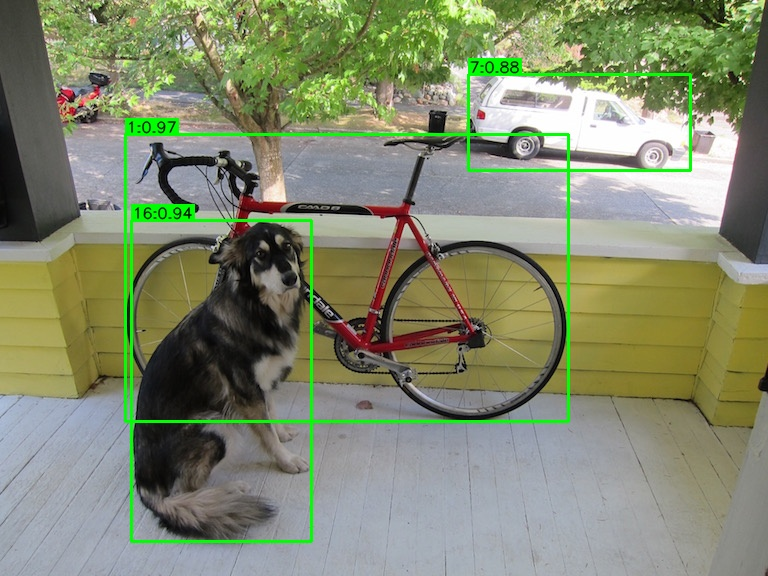
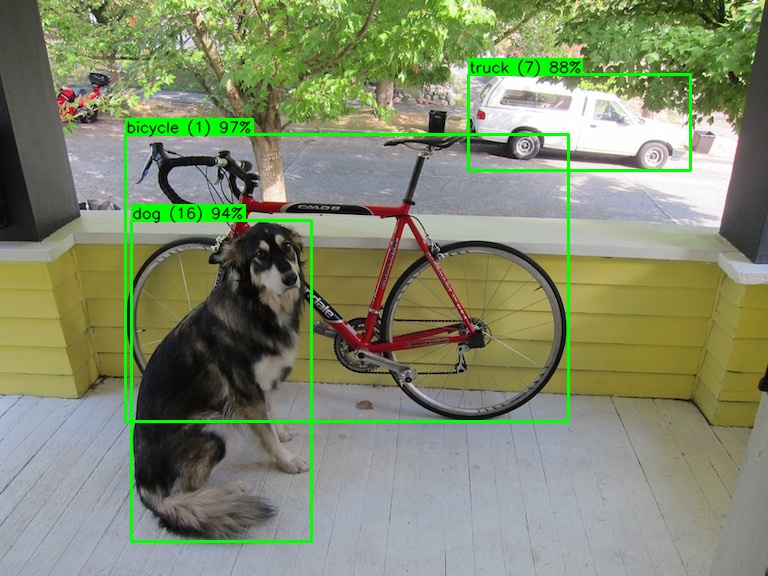
feat(viz): include class index and percentage in labels; regenerate dog_viz\n\n test(infer): add e2e dog detection test for yolov10s (skips if weights not cached)\n chore(gitignore): ignore weights/ artifacts\n\nAlso prints detailed stdout from infer.py and update_dog_viz for coding agents.

Changed region(s): [[0.1562, 0.1875, 0.3438, 0.25], [0.1562, 0.3438, 0.3438, 0.4062], [0.5938, 0.0938, 0.7812, 0.1562]]

diff --git a/leanyolo/utils/weights.py b/leanyolo/utils/weights.py
@@ -11,6 +11,10 @@ from urllib.parse import urlparse
 from urllib.request import urlopen
 
 import torch
+import re
+import sys
+import types
+from torch.serialization import add_safe_globals
 
 
 @dataclass
@@ -66,12 +70,72 @@ class WeightsEntry:
             except Exception:
                 # Last resort: explicit weights_only=False for odd cases
                 return torch.load(path, map_location=map_location, weights_only=False)  # type: ignore[call-arg]
-        except Exception:
-            # Fallback path
+        except Exception as e:
+            # Attempt a safe load by dynamically stubbing missing globals (e.g., ultralytics classes)
             try:
-                return torch.load(path, map_location=map_location, weights_only=False)  # type: ignore[call-arg]
+                return self._safe_load_with_dynamic_stubs(path, map_location)
             except Exception:
-                return torch.load(path, map_location=map_location)
+                # Fallback path (may require external modules; only if trusted)
+                try:
+                    return torch.load(path, map_location=map_location, weights_only=False)  # type: ignore[call-arg]
+                except Exception:
+                    return torch.load(path, map_location=map_location)
+
+    def _safe_load_with_dynamic_stubs(self, path: str, map_location: str | torch.device):
+        """Load a checkpoint with weights_only=True by allowlisting missing globals.
+
+        This avoids importing external libraries (e.g., ultralytics) by creating
+        minimal stub modules and classes on-the-fly and registering them via
+        torch.serialization.add_safe_globals. Only class names required by the
+        checkpoint are stubbed, and no conversion is performed here.
+        """
+        attempted: set[str] = set()
+        for _ in range(64):  # guard against infinite loops
+            try:
+                return torch.load(path, map_location=map_location, weights_only=True)  # type: ignore[call-arg]
+            except Exception as ex:  # UnpicklingError with details
+                msg = str(ex)
+                # Look for pattern like: "Unsupported global: GLOBAL ultralytics.nn.tasks.YOLOv10DetectionModel"
+                m = re.search(r"Unsupported global: (?:GLOBAL\s+)?([\w\.]+)\.(\w+)", msg)
+                if not m:
+                    raise
+                mod_path, cls_name = m.group(1), m.group(2)
+                fqcn = f"{mod_path}.{cls_name}"
+                if fqcn in attempted:
+                    raise
+                attempted.add(fqcn)
+                # Create stub module hierarchy
+                cur_mod = None
+                parent = None
+                for i, part in enumerate(mod_path.split(".")):
+                    mod_full = ".".join(mod_path.split(".")[: i + 1])
+                    mod_obj = sys.modules.get(mod_full)
+                    if mod_obj is None:
+                        mod_obj = types.ModuleType(mod_full)
+                        sys.modules[mod_full] = mod_obj
+                        if parent is not None:
+                            setattr(parent, part, mod_obj)
+                    parent = mod_obj
+                # Define a minimal stub class with a permissive state_dict() accessor
+                mod_obj = sys.modules[mod_path]
+                if not hasattr(mod_obj, cls_name):
+                    # Create a new type under the module
+                    Stub = type(
+                        cls_name,
+                        (object,),
+                        {
+                            "__module__": mod_path,
+                            # Provide a benign state_dict() to satisfy callers; actual tensors are
+                            # extracted from nested dicts by downstream utilities.
+                            "state_dict": lambda self: {},
+                        },
+                    )
+                    setattr(mod_obj, cls_name, Stub)
+                    add_safe_globals([Stub])
+                else:
+                    add_safe_globals([getattr(mod_obj, cls_name)])
+        # If we somehow exit the loop
+        raise RuntimeError("Failed to safely load checkpoint with dynamic stubs")
 
     def get_state_dict(
         self,

diff --git a/leanyolo/tests/test_infer_dog_pretrained.py b/leanyolo/tests/test_infer_dog_pretrained.py
@@ -1,0 +1,76 @@
+import os
+from pathlib import Path
+
+import pytest
+import cv2
+import torch
+
+from leanyolo.models import get_model, get_model_weights
+from leanyolo.data.coco import coco80_class_names
+from leanyolo.utils.letterbox import letterbox
+from leanyolo.utils.box_ops import unletterbox_coords
+
+
+def _weights_available_locally(model_name: str, filename: str) -> bool:
+    # Check LEANYOLO_WEIGHTS_DIR
+    env_dir = os.environ.get("LEANYOLO_WEIGHTS_DIR")
+    if env_dir and os.path.exists(os.path.join(env_dir, filename)):
+        return True
+    # Check default cache
+    cache_dir = os.path.join(os.path.expanduser("~"), ".cache", "leanyolo")
+    if os.path.exists(os.path.join(cache_dir, filename)):
+        return True
+    return False
+
+
+@pytest.mark.skipif(
+    not _weights_available_locally("yolov10s", "yolov10s.pt"),
+    reason="Official weights not cached locally; set LEANYOLO_WEIGHTS_DIR or prepopulate ~/.cache/leanyolo",
+)
+def test_dog_bicycle_truck_present_with_high_confidence():
+    img_path = Path("dog.jpg")
+    assert img_path.exists(), "dog.jpg must exist in repo root"
+
+    # Load image (BGR->RGB)
+    bgr = cv2.imread(str(img_path), cv2.IMREAD_COLOR)
+    assert bgr is not None, "Failed to read dog.jpg"
+    rgb = cv2.cvtColor(bgr, cv2.COLOR_BGR2RGB)
+
+    # Prepare model + class names
+    class_names = coco80_class_names()
+    model = get_model(
+        name="yolov10s",
+        weights="PRETRAINED_COCO",
+        class_names=class_names,
+        input_norm_subtract=[0.0, 0.0, 0.0],
+        input_norm_divide=[255.0, 255.0, 255.0],
+    ).to("cpu").eval()
+
+    # Inference pipeline similar to infer.py
+    imgsz = 640
+    lb_img, gain, pad = letterbox(rgb, new_shape=imgsz)
+    x = torch.from_numpy(lb_img).permute(2, 0, 1).float().unsqueeze(0)
+
+    with torch.inference_mode():
+        model.post_conf_thresh = 0.01  # low; we filter later at 0.80
+        model.post_iou_thresh = 0.65
+        raw = model(x)
+        dets = model.decode_forward(raw)[0][0]
+
+    # Coordinates are not needed for class/score checks; avoid in-place ops on inference tensors
+
+    # Verify presence of target classes with confidence >= 0.80
+    want = {"dog": False, "bicycle": False, "truck": False}
+    name_to_idx = {name: i for i, name in enumerate(class_names)}
+    target_idxs = {k: name_to_idx[k] for k in want.keys()}
+
+    for i in range(dets.shape[0]):
+        x1, y1, x2, y2, score, cls_idx = dets[i].tolist()
+        if score >= 0.80:
+            for cname, cidx in target_idxs.items():
+                if int(cls_idx) == cidx:
+                    want[cname] = True
+
+    assert want["dog"], "Expected a dog with conf >= 0.80"
+    assert want["bicycle"], "Expected a bicycle with conf >= 0.80"
+    assert want["truck"], "Expected a truck with conf >= 0.80"

diff --git a/leanyolo/utils/remap.py b/leanyolo/utils/remap.py
@@ -15,6 +15,37 @@ POSSIBLE_STATE_KEYS = (
 )
 
 
+def _module_like_to_state_dict(mod, prefix: str = "") -> Dict[str, torch.Tensor]:
+    """Extract state_dict from an nn.Module-like object without calling methods.
+
+    Traverses attributes `_parameters`, `_buffers`, and `_modules` recursively
+    to build a flat dict of tensors keyed by hierarchical names. This works for
+    safely-unpickled objects that mimic nn.Module structure but don't implement
+    a functional state_dict method (e.g., when loaded with weights_only=True and
+    stubbed classes).
+    """
+    out: Dict[str, torch.Tensor] = {}
+    try:
+        params = getattr(mod, "_parameters", None)
+        if isinstance(params, dict):
+            for k, v in params.items():
+                if isinstance(v, torch.Tensor):
+                    out[prefix + k] = v
+        buffers = getattr(mod, "_buffers", None)
+        if isinstance(buffers, dict):
+            for k, v in buffers.items():
+                if isinstance(v, torch.Tensor):
+                    out[prefix + k] = v
+        children = getattr(mod, "_modules", None)
+        if isinstance(children, dict):
+            for name, child in children.items():
+                child_prefix = prefix + (name + "." if prefix or name else "")
+                out.update(_module_like_to_state_dict(child, child_prefix))
+    except Exception:
+        pass
+    return out
+
+
 def extract_state_dict(obj: Dict) -> Dict[str, torch.Tensor]:
     """Extract a flat state_dict from various checkpoint formats.
 
@@ -29,6 +60,10 @@ def extract_state_dict(obj: Dict) -> Dict[str, torch.Tensor]:
                 return sd
         except Exception:
             pass
+    # Fallback: handle module-like objects without calling methods
+    ml = _module_like_to_state_dict(obj)
+    if ml:
+        return ml
 
     if isinstance(obj, dict):
         # If it already looks like a state_dict
@@ -49,6 +84,9 @@ def extract_state_dict(obj: Dict) -> Dict[str, torch.Tensor]:
                         return sd
                 except Exception:
                     pass
+            ml = _module_like_to_state_dict(v)
+            if ml:
+                return ml
             # If nested dict
             if isinstance(v, dict) and v:
                 inner = v
@@ -61,6 +99,9 @@ def extract_state_dict(obj: Dict) -> Dict[str, torch.Tensor]:
                                 return sd
                         except Exception:
                             pass
+                    ml2 = _module_like_to_state_dict(vv)
+                    if ml2:
+                        return ml2
                     if isinstance(vv, dict) and vv:
                         inner = vv
                         break

diff --git a/leanyolo/tests/test_weights_safe_unpickle.py b/leanyolo/tests/test_weights_safe_unpickle.py
@@ -1,0 +1,65 @@
+import sys
+import types
+import tempfile
+from pathlib import Path
+
+import torch
+
+from leanyolo.utils.weights import WeightsEntry
+from leanyolo.utils.remap import extract_state_dict
+
+
+# Define a top-level stub class so it is picklable
+class YOLOv10DetectionModel:
+    __module__ = "ultralytics.nn.tasks"
+
+    def __init__(self, model):
+        self._parameters = {}
+        self._buffers = {}
+        self._modules = {"model": model}
+
+
+def _install_ultralytics_stub_for_dump():
+    # Create a minimal ultralytics-like module tree to embed in a checkpoint
+    root = types.ModuleType("ultralytics")
+    nn = types.ModuleType("ultralytics.nn")
+    tasks = types.ModuleType("ultralytics.nn.tasks")
+    root.nn = nn
+    nn.tasks = tasks
+    sys.modules["ultralytics"] = root
+    sys.modules["ultralytics.nn"] = nn
+    sys.modules["ultralytics.nn.tasks"] = tasks
+
+    tasks.YOLOv10DetectionModel = YOLOv10DetectionModel
+    return root
+
+
+def test_weights_entry_loads_ultralytics_style_checkpoint(tmp_path):
+    # 1) Build a tiny nn.Sequential to act as 'model'
+    seq = torch.nn.Sequential(
+        torch.nn.Conv2d(3, 3, 1),
+        torch.nn.BatchNorm2d(3),
+    )
+
+    # 2) Install stub to create a pickled object with ultralytics globals
+    stub_root = _install_ultralytics_stub_for_dump()
+
+    try:
+        ckpt = {"model": stub_root.nn.tasks.YOLOv10DetectionModel(seq)}
+        path = Path(tmp_path) / "fake_official.pt"
+        torch.save(ckpt, path)
+    finally:
+        # Remove stubs to simulate environment without ultralytics at load time
+        for k in ["ultralytics.nn.tasks", "ultralytics.nn", "ultralytics"]:
+            sys.modules.pop(k, None)
+
+    # 3) Use WeightsEntry to safely load without ultralytics being installed
+    entry = WeightsEntry(name="test", url=None, filename=str(path.name))
+    obj = entry.get_state_dict(local_path=str(path))
+    # 4) Extract and verify a plausible state_dict
+    sd = extract_state_dict(obj)
+    assert isinstance(sd, dict)
+    # Should include conv and bn parameters
+    keys = set(sd.keys())
+    assert any(k.endswith(".weight") for k in keys)
+    assert any("running_mean" in k for k in keys)

diff --git a/infer.py b/infer.py
@@ -110,6 +110,21 @@ def infer_paths(
             vis = draw_detections(bgr, dets, class_names=cn)
             out_path = os.path.join(save_dir, ipath.name)
             cv2.imwrite(out_path, vis)
+            # Print status for coding agents
+            print(f"Infer: input='{ipath}', output='{out_path}'")
+            if dets.numel() == 0:
+                print("  detections: 0")
+            else:
+                print(f"  detections: {dets.shape[0]}")
+                for i in range(dets.shape[0]):
+                    x1, y1, x2, y2, score, cls_idx = dets[i].tolist()
+                    cls_idx_int = int(cls_idx)
+                    cls_name = cn[cls_idx_int] if 0 <= cls_idx_int < len(cn) else str(cls_idx_int)
+                    print(
+                        "  box[{}]: x1={:.1f}, y1={:.1f}, x2={:.1f}, y2={:.1f}, score={:.3f}, cls='{}' ({})".format(
+                            i, x1, y1, x2, y2, score, cls_name, cls_idx_int
+                        )
+                    )
             results.append((str(ipath), dets))
 
     return results
@@ -125,7 +140,7 @@ def main():
         cats = sorted(data.get('categories', []), key=lambda c: c.get('id', 0))
         class_names = [c.get('name', str(i)) for i, c in enumerate(cats)]
 
-    _ = infer_paths(
+    results = infer_paths(
         source=args.source,
         model_name=args.model,
         weights=None if args.weights in {"", "none", "None", "NONE"} else args.weights,
@@ -136,6 +151,9 @@ def main():
         save_dir=args.save_dir,
         class_names=class_names,
     )
+    # Print a brief summary
+    total = sum(int(d.shape[0]) for _, d in results)
+    print(f"Done: {len(results)} image(s), total detections={total}")
 
 
 if __name__ == "__main__":

diff --git a/scripts/update_dog_viz.py b/scripts/update_dog_viz.py
@@ -85,6 +85,21 @@ def main() -> None:
     # Draw on original BGR and save
     vis = draw_detections(bgr, dets, class_names=cn)
     cv2.imwrite(str(OUT_PATH), vis)
+    # Print status and boxes for coding agents
+    print(f"Dog: input='{DOG_PATH}', output='{OUT_PATH}', model='{MODEL}', imgsz={IMGSZ}, conf={CONF}, iou={IOU}")
+    if dets.numel() == 0:
+        print("  detections: 0")
+    else:
+        print(f"  detections: {dets.shape[0]}")
+        for i in range(dets.shape[0]):
+            x1, y1, x2, y2, score, cls_idx = dets[i].tolist()
+            cls_idx_int = int(cls_idx)
+            cls_name = cn[cls_idx_int] if 0 <= cls_idx_int < len(cn) else str(cls_idx_int)
+            print(
+                "  box[{}]: x1={:.1f}, y1={:.1f}, x2={:.1f}, y2={:.1f}, score={:.3f}, cls='{}' ({})".format(
+                    i, x1, y1, x2, y2, score, cls_name, cls_idx_int
+                )
+            )
 
     # Cleanup: keep only dog.jpg and dog_viz.jpg
     keep = {str(DOG_PATH.resolve()), str(OUT_PATH.resolve())}

diff --git a/leanyolo/utils/viz.py b/leanyolo/utils/viz.py
@@ -22,11 +22,13 @@ def draw_detections(
         x1, y1, x2, y2 = map(int, [x1, y1, x2, y2])
         cls_id = int(c)
         cv2.rectangle(out, (x1, y1), (x2, y2), color, 2)
-        label = f"{cls_id}:{s:.2f}"
+        # Build label showing class name and index, score as percentage
+        pct = int(round(float(s) * 100))
         if class_names and 0 <= cls_id < len(class_names):
-            label = f"{class_names[cls_id]}:{s:.2f}"
+            label = f"{class_names[cls_id]} ({cls_id}) {pct}%"
+        else:
+            label = f"{cls_id} {pct}%"
         (w, h), _ = cv2.getTextSize(label, cv2.FONT_HERSHEY_SIMPLEX, 0.5, 1)
         cv2.rectangle(out, (x1, y1 - h - 4), (x1 + w + 2, y1), color, -1)
         cv2.putText(out, label, (x1 + 1, y1 - 2), cv2.FONT_HERSHEY_SIMPLEX, 0.5, (0, 0, 0), 1, cv2.LINE_AA)
     return out
-

diff --git a/scripts/convert_official_weights.py b/scripts/convert_official_weights.py
@@ -3,7 +3,7 @@ from __future__ import annotations
 
 """Convert PRETRAINED_COCO weights to a plain state_dict checkpoint.
 
-This script instantiates a YOLOv10 model via `get_model(weights='PRETRAINED_COCO')`
+This script instantiates a lean YOLO model via `get_model(weights='PRETRAINED_COCO')`
 and saves its `state_dict()` to the given path. The resulting `.pt` file is a
 standard PyTorch state_dict compatible with `get_model(weights='/path/to/file.pt')`.
 
